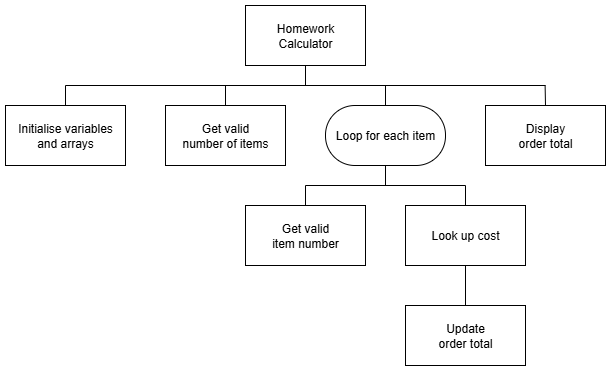
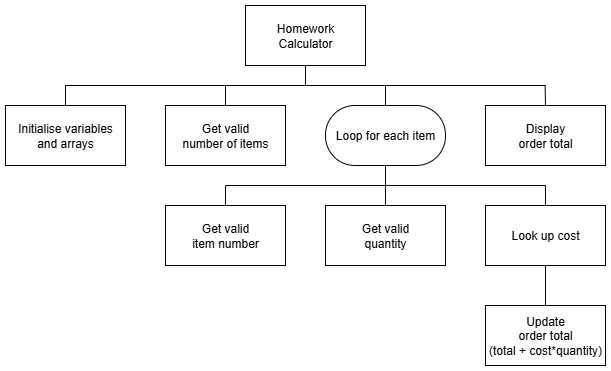
Updated

diff --git a/n5-cs/sdd/N5-SDD-Cafe/assets/solution1.py b/n5-cs/sdd/N5-SDD-Cafe/assets/solution1.py
@@ -5,6 +5,7 @@
 # Initialise variables
 noOfItems = 0
 itemNumber = 0.0
+quantity = 0
 cost = 0.0
 total = 0.0
 
@@ -34,10 +35,12 @@ print()
 print("Enter a number for each item:")
 print(" 1 = Tea, 2 = Coffee, 3 = Can")
 print(" 4 = Toastie, 5 = Cake")
-print()
 
 # Loop for each item
 for index in range(numberOfItems):
+    
+    # Blank line
+    print()
     
     # Enter item number
     itemNumber = int(input(items[index] + " item: "))
@@ -52,11 +55,24 @@ for index in range(numberOfItems):
         # Re-enter item number
         itemNumber = int(input(items[index] + " item: "))
     
+    # Enter how many
+    quantity = int(input("How many: "))
+    
+    # Check if item number is valid
+    while quantity < 1 or quantity > 6:
+        
+        # Display error message
+        print()
+        print("Invalid. Please enter a number between 1 and 6.")
+        
+        # Re-enter how many
+        quantity = int(input("How many: "))
+    
     # Look up cost
     cost = costs[itemNumber - 1]
     
     # Update total
-    total = total + cost
+    total = total + cost * quantity
 
 # Display total
 print()
